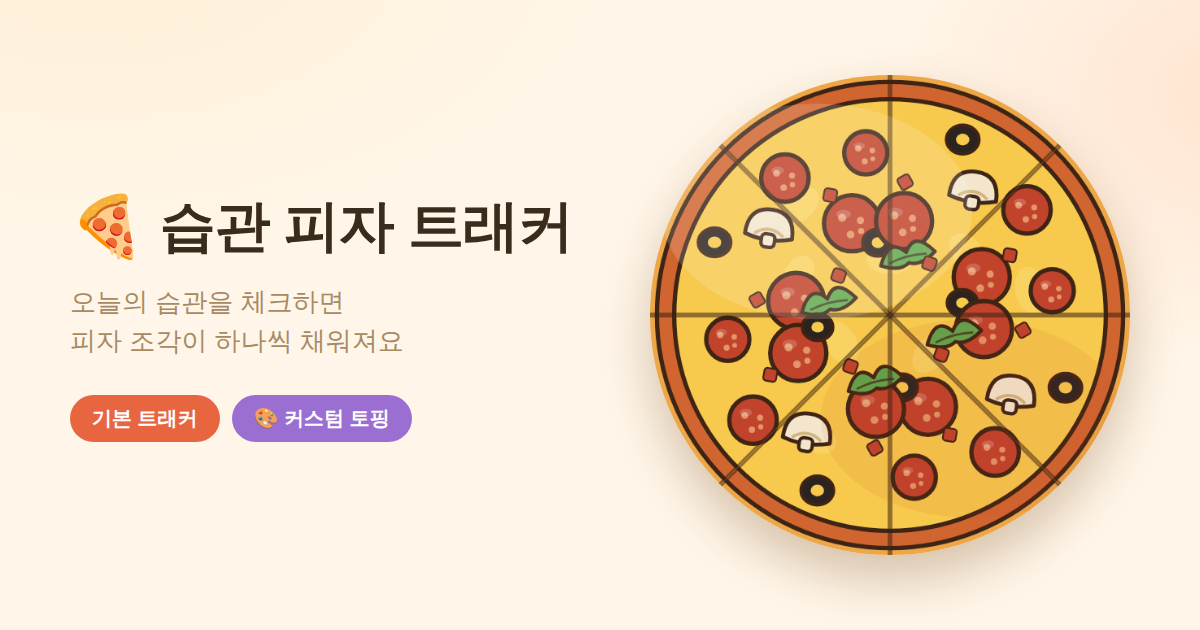
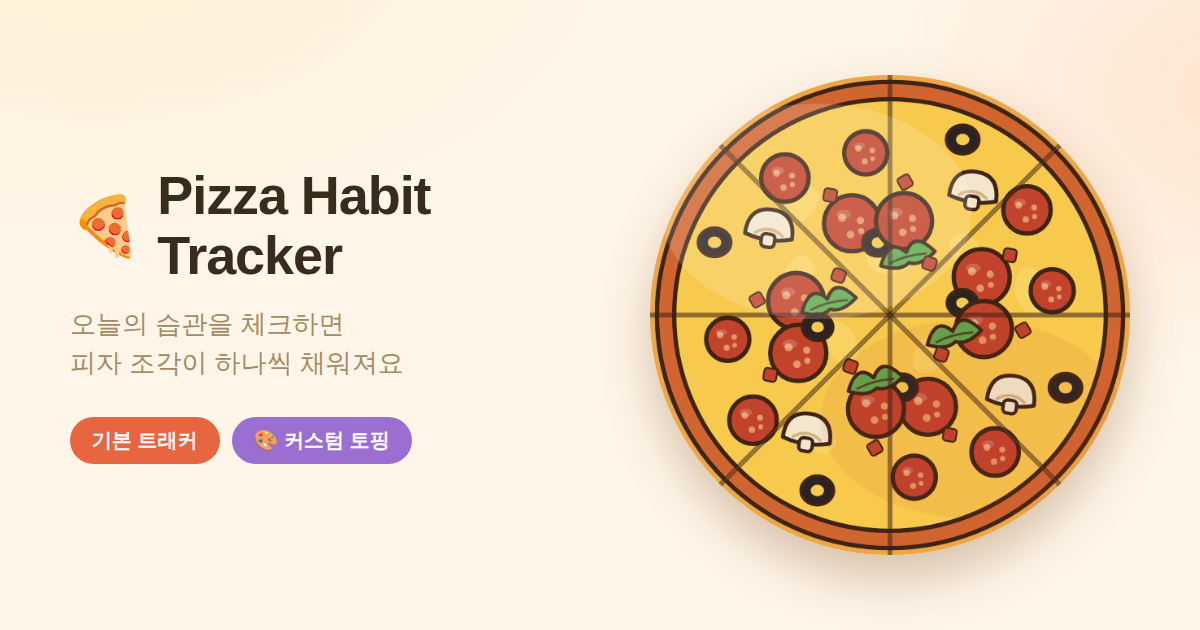
Rename link preview title to "Pizza Habit Tracker"
Match the repo's English name in the og:title/twitter:title and the
preview image itself, instead of the Korean in-app title.

Changed region(s): [[0.0617, 0.2714, 0.4933, 0.754]]

diff --git a/index.html b/index.html
@@ -7,7 +7,7 @@
     <meta name="description" content="오늘의 습관을 체크하면 피자 조각이 하나씩 채워져요. 기본 트래커와 나만의 토핑을 고르는 커스텀 트래커를 함께 즐겨보세요." />
 
     <meta property="og:type" content="website" />
-    <meta property="og:title" content="🍕 습관 피자 트래커" />
+    <meta property="og:title" content="🍕 Pizza Habit Tracker" />
     <meta property="og:description" content="오늘의 습관을 체크하면 피자 조각이 하나씩 채워져요." />
     <meta property="og:image" content="https://migom2.github.io/Pizza-habit-tracker/og-image.png" />
     <meta property="og:image:width" content="1200" />
@@ -15,7 +15,7 @@
     <meta property="og:url" content="https://migom2.github.io/Pizza-habit-tracker/" />
 
     <meta name="twitter:card" content="summary_large_image" />
-    <meta name="twitter:title" content="🍕 습관 피자 트래커" />
+    <meta name="twitter:title" content="🍕 Pizza Habit Tracker" />
     <meta name="twitter:description" content="오늘의 습관을 체크하면 피자 조각이 하나씩 채워져요." />
     <meta name="twitter:image" content="https://migom2.github.io/Pizza-habit-tracker/og-image.png" />
 
